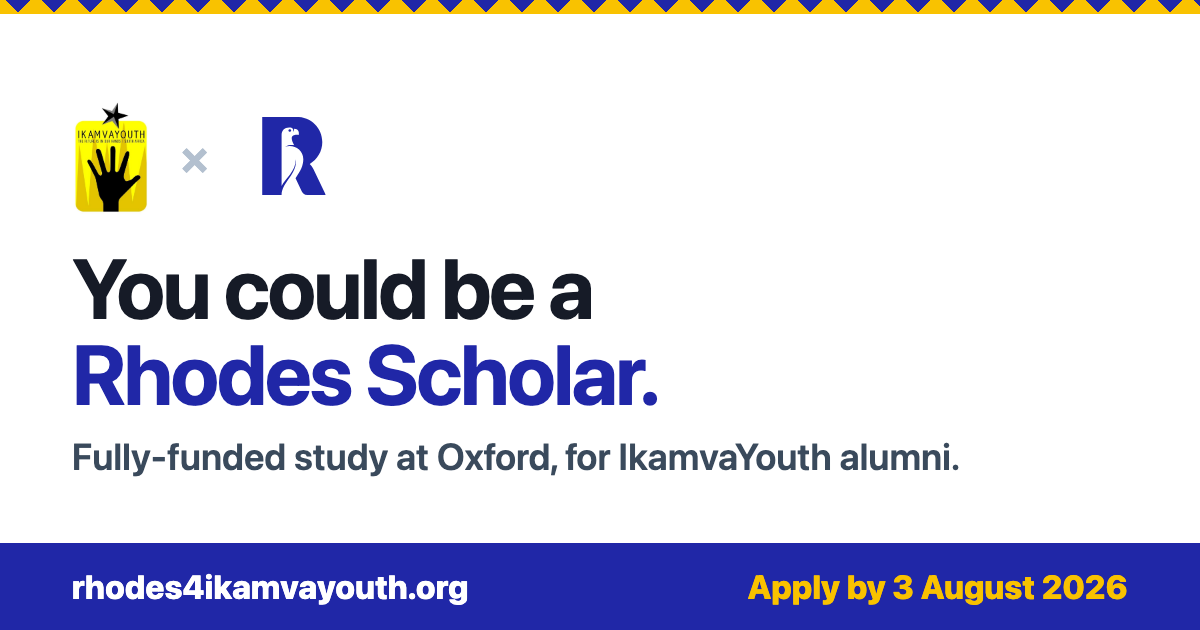
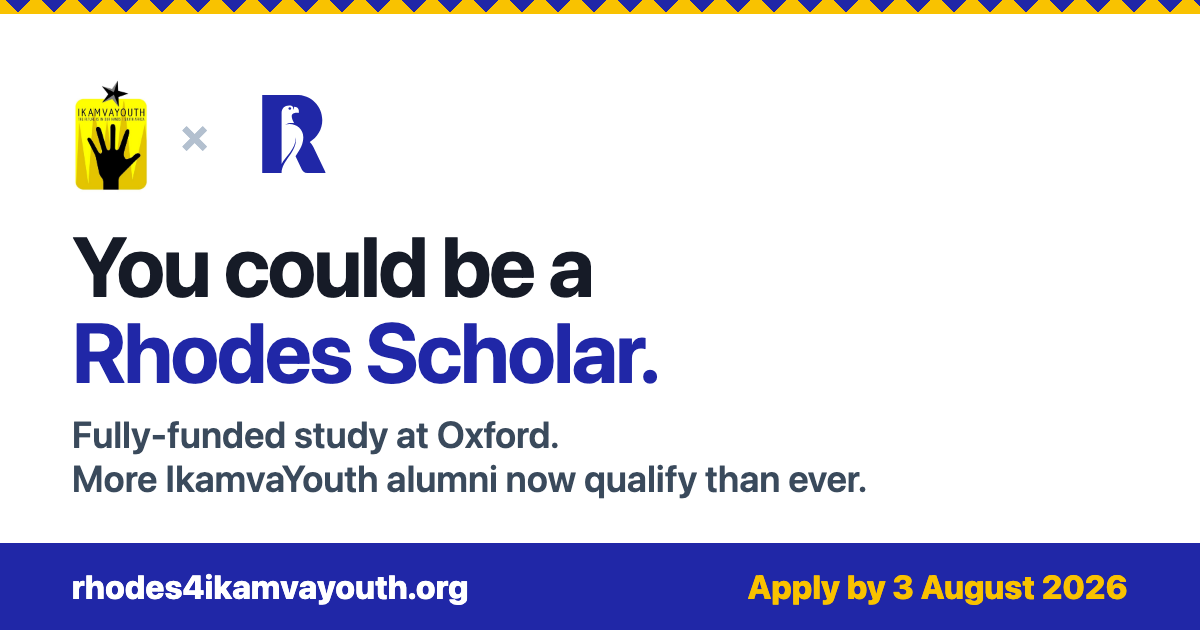
Reword link-preview image: 'More IkamvaYouth alumni now qualify than ever'
Avoids implying the Rhodes is IkamvaYouth-specific; conveys that the expanded scholarships widened eligibility for IkamvaYouth alumni.

Changed region(s): [[0.0617, 0.1206, 0.8017, 0.7841], [0.2158, 0.1508, 0.2775, 0.3317], [0.1542, 0.181, 0.185, 0.2714]]

diff --git a/onepager/og-image.html b/onepager/og-image.html
@@ -32,7 +32,7 @@
       <img class="rh" src="../assets/rhodes-logo_simple.svg" alt="">
     </div>
     <h1>You could be a <span class="hl">Rhodes&nbsp;Scholar.</span></h1>
-    <div class="sub">Fully-funded study at Oxford, for IkamvaYouth alumni.</div>
+    <div class="sub">Fully-funded study at Oxford.<br>More IkamvaYouth alumni now qualify than ever.</div>
   </div>
   <div class="bar"><span>rhodes4ikamvayouth.org</span><span class="dl">Apply by 3 August 2026</span></div>
 </body>